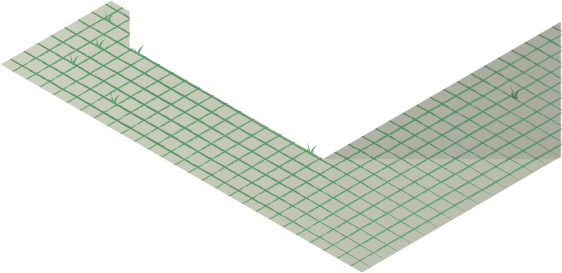
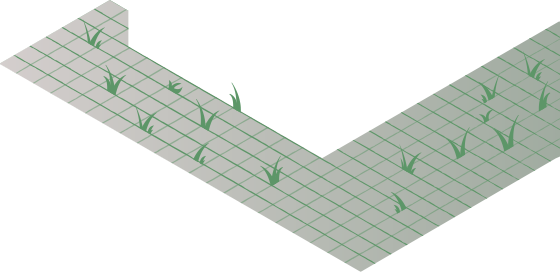
new background, new herbs patio, setup updated with latest driver EloTouch elousbd

Changed region(s): [[0.0, 0.0, 1.0, 1.0]]

diff --git a/utils/texts.py b/utils/texts.py
@@ -67,7 +67,7 @@ txt_main_title_en = Text(
 
 txt_watermark_heig = Text(
     fr="Projet de service civil réalisé en partenariat entre Pro Natura et l'HEIG-VD (IICT). Retrouvez ce jeu dans l'exposition du Centre Pro Natura de Champ-Pittet du 18 mars au 1er novembre 2017.",
-    de="Ein Projekt des Zivildienstes, in Zusammenarbeit mit Pro Natura und der Fachhochschule HEIG-VD. Das Spiel ist im Ausstellung im Champ-Pittet vom 15. März bis am 1. November 2017 vorzufinden.",
+    de="Ein Projekt des Zivildienstes, in Zusammenarbeit mit Pro Natura und der Fachhochschule HEIG-VD. Das Spiel ist im Ausstellung im Champ-Pittet vom 18. März bis am 1. November 2017 vorzufinden.",
     en="Swiss civilian project in a partnership bewteen Pro Natura and HEIG-VD School of Engineering. Find this game in the exhibition of Champ-Pittet, Yverdon, from March 18th to November 1st 2017.")
 
 # CATEGORIES and objects names
@@ -185,21 +185,21 @@ txt_impressum = Text(
     de="Impressum")
 
 txt_impressum_full = \
-    "Jeu pédagogique et interactif d'éducation à l'environnement\n" \
-    "[i]Interaktives pädagogisches Spiel zur Umweltbildung[/i]\n" \
+    "[b]Jeu pédagogique et interactif d'éducation à l'environnement[/b]\n" \
+    "Interaktives pädagogisches Spiel zur Umweltausbildung\n" \
     "[i]Interactive serious game about environmental education[/i]\n\n" \
-    "[b]Mandataire[/b]: Centre Pro Natura de Champ-Pittet, Yverdon, Suisse\n" \
-    "[b]Illustrations[/b]: Ariane Nicollier (Fabrica Collective), Lucas Oetlli\n" \
-    "[b]Contenus et textes[/b]: Briséïs Castella, Layne Meinich\n" \
-    "[b]Traductions[/b]: Alena Wehrli, Mira Maeder\n" \
-    "[b]Relectures[/b]: Florence Kupferschmid, Marie Bovay, Andrea Strässle, Lucas Oettli\n" \
+    "[b]Mandataire[/b]: Centre Pro Natura de Champ-Pittet, Yverdon-les-Bains, Suisse\n" \
+    "[b]Illustrations[/b]: Ariane Nicollier / Fabrica Collective, Lucas Oettli\n" \
     "[b]Conception graphique[/b]: Marc-Olivier Schatz\n" \
-    "[b]Développement et programmation[/b]: Valentin Minder\n" \
-    "[b]Parainage[/b]: IICT Institute for Information and Communication Technologies (HEIG-VD)\n" \
-    "[b]Ecrans tactiles[/b]: Haute Ecole d'Ingénierie et de Gestion Vaud (HEIG-VD)\n" \
-    "Haute Ecole Spécialisée de Suisse Occidentale(HES-SO)\n" \
+    "[b]Contenus et textes[/b]: Briséïs Castella, Layne Meinich\n" \
+    "[b]Traductions [i]deutsch[/i][/b]: Alena Wehrli, Florence Kupferschmid, Mira Maeder\n" \
+    "[b]Relectures[/b]: Marie Bovay, Andrea Strässle, Lucas Oettli, Alan Regley\n" \
+    "[b]Développement informatique et programmation[/b]: Valentin Minder\n" \
+    "[b]Partenaire[/b]: Institute for Information and Communication Technologies ([b]IICT[/b])\n" \
+    "Haute Ecole d'Ingénierie et de Gestion Vaud ([b]HEIG-VD[/b])\n" \
+    "Haute Ecole Spécialisée de Suisse Occidentale ([b]HES-SO[/b])\n" \
     "[i]University of Applied Sciences and Arts Western Switzerland[/i]\n\n" \
-    "[b]Copyright[/b] ProNatura 2016-2018\n"
+    "[b]Copyright (C)[/b] Pro Natura 2016-2018\n"
 
 txt_scenery_notxt = Text(
     fr="",
@@ -254,17 +254,26 @@ txt_recover_correct = Text(
 txt_tutorial_welcome_p0 = Text(
     fr="Bienvenue dans mon jardin !",
     de="Herzlich Willkommen in meinem Garten!",
-    en="Welcome in  my garden!")
-txt_dot = Text(fr="  •  ", de = "  •  ")
+    en="Welcome in my garden!")
+txt_dot = Text(fr="  •  ", de="  •  ")
 txt_tutorial_welcome_p1 = Text(
-    fr="[b][size=25]Bienvenue dans mon jardin, le but de ce jeu est de m'aider à l'aménager![/size][/b]\n\n\n" \
-       "[anchor=dot000x]Dans l'aménagement idéal, [b]mon jardin peut être un corridor biologique[/b], c'est à dire un endroit où les divers animaux se sentent bien pour vivre, se déplacer, se reproduire, se nourrir, entre autres.\n" \
-       "[anchor=dot000y]Pour chaque catégorie d'objet, il y a [b]le choix entre deux objets[/b] dans le menu de gauche. Par glisser-déposer, place l'objet dans le jardin sur la zone clignotante prévue pour l'accueillir.\n" \
-       "[anchor=dot000z]Une fois l'objet correctement placé, une animation avec un animal va apparaitre, et un point sera gagné ou perdu.\n" \
-       "[anchor=dot000w]Dans le cas d'un mauvais choix, il est encore possible de changer d'avis ou tenter d'améliorer le choix.\n" \
-       "[anchor=dot000u]Dans tous les cas, on peut [b]accéder à plus d'informations et des explications[/b], afin de comprendre pourquoi tel objet est utile ou néfaste aux mouvements des animaux.",
-    de="TODE",
-    en="The goal of the game is to help me set up my backyard layout, like in a simple garden-version of 'simcity'.")
+    fr="\n\n[b]BUT DU JEU[/b]\n" \
+       "Aménager des corridors biologiques dans son jardin.\n\n\n" \
+       "[b]DEROULEMENT DU JEU[/b]\n" \
+       "[anchor=dot000x]Dans la colonne de gauche, une série d’objets pour aménager le jardin apparaissent.\n" \
+       "[anchor=dot000y]Choisir un objet, le glisser et le déposer dans le jardin.\n" \
+       "[anchor=dot000z]Chaque bon choix rapporte des points. Chaque mauvais choix enlève des points. Plus le score sera élevé, plus le jardin sera accueillant pour la faune qui le traverse.\n\n\n" \
+       "[b]CHOIX STRATEGIQUE[/b]\n" \
+       "On apprend en faisant des erreurs ! Il est possible de corriger les mauvaix choix et d’améliorer son score.\n",
+    de="\n\n[b]ZIEL DES SPIELS[/b]\n" \
+       "Gestalten eines biologischen Korridors im eigenen Garten\n\n" \
+       "[b]ABLAUF DES SPIELS[/b]\n" \
+       "[anchor=dot000x]In der linken Kolonne erscheint eine Auswahl von Objekten, mit denen der Garten eingerichtet werden kann.\n" \
+       "[anchor=dot000y]Ein Objekt aussuchen, in den Garten ziehen und positionieren.\n" \
+       "[anchor=dot000z]Jede gute Wahl bringt Punkte ein. Bei jeder schlechten Wahl werdent Punkte abgezogen. Je höher die Punktzahl, desto einladender ist der Garten für die Wildtiere, die ihn durchqueren.\n\n" \
+       "[b]STRATEGIE[/b]\n" \
+       "Aus Fehlern lernt man ! Eine schlechte Wahl kann korrigiert und die Punktzahl verbessert werden.",
+    en="The goal of the game is to help me set up my backyard layout.")
 
 txt_tutorial_play = Text(
     color=color.white,

diff --git a/main.py b/main.py
@@ -722,7 +722,7 @@ class FloatGameScreen(BackKeyScreen):
                                source='images/scenery/nav_fond_gauche_200x768px.png'))
         f.add_widget(ImageWrap(pos=(sizes.width_left_margin, sizes.height_ref),
                                size=(sizes.width_game, sizes.height),
-                               source='images/fond/fond_jardin_v5-4.png'))
+                               source='images/fond/fond_jardin_v7a.png'))
         f.add_widget(ImageWrap(pos=(sizes.width_right_game, sizes.height_ref),
                                size=(sizes.width_right_margin, sizes.height),
                                source='images/scenery/nav_fond_droite_142x768px.png'))
@@ -1024,7 +1024,7 @@ class FloatGameScreen(BackKeyScreen):
         anim_points.start(points_image.image)
 
     def start_game_tuto(self):
-        window_frame = win_generate(text_title=txt.txt_main_title) #todo txt.txt_tutorial_welcome_p0
+        window_frame = win_generate(text_title=txt.txt_tutorial_welcome_p0)
 
         def on_press(screen):
             self.frame.remove_widget(window_frame)

diff --git a/utils/sizes.py b/utils/sizes.py
@@ -99,8 +99,8 @@ event_c31alt = (width_left_margin + 239 - 58, 604 - 3)
 event_c32alt = (width_left_margin + 239 - 58 - 15, 604 - 55 - 30)
 
 #floor
-size_c4 = (562,273)
-pos_c4 = (width_left_margin + 463, 360)
+size_c4 = (560,272)
+pos_c4 = (width_left_margin + 465, 361)
 event_c4bef = event(pos_c4, size_c4)
 event_c4_step1 = (event_c4bef[0] - 200 + 200 + 70, event_c4bef[1] + 20 - 180)
 event_c4_step2 = (event_c4bef[0] - 200 - 20, event_c4bef[1] + 20)
